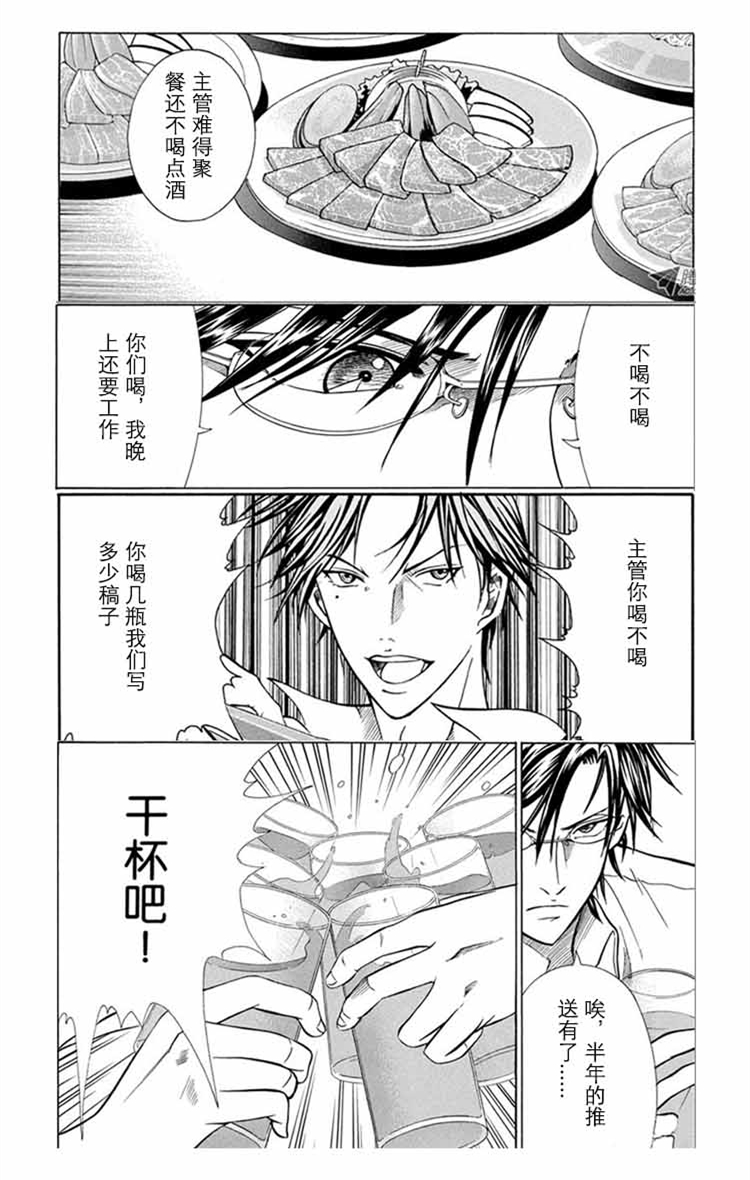
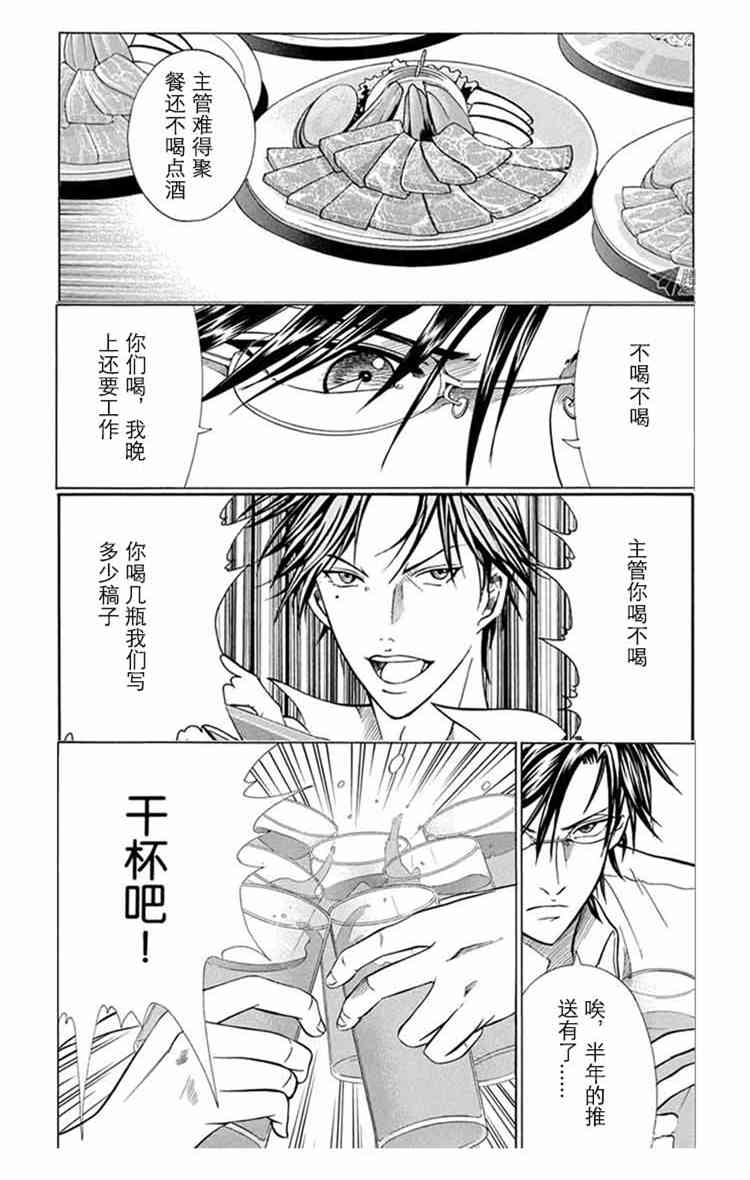
改小图，优化第二第四页动画时间

diff --git a/js/main.js b/js/main.js
@@ -36,7 +36,7 @@ $(document).ready(function(){
         var i = 0;
         while(arr[i] != undefined){
             if(i > 0){
-                TimeLine.add(Tweene.get($(str+" #sec-div"+arr[i-1])).to({opacity: 0}).duration(500).easing([0, 0, 1, 1]));
+                TimeLine.add(Tweene.get($(str+" #sec-div"+arr[i-1])).to({opacity: 0}).duration(500).easing([0, 0, 1, 1]), "+=500");
             }
             var maxlen = $(str+" #sec-div"+arr[i]+" p").size();
             for(var j=1; j<=maxlen; j++){

diff --git a/css/second-style.css b/css/second-style.css
@@ -447,6 +447,9 @@
     top: 50%;
     width: 100%;
 }
+#news .news-contain img:nth-child(4){
+    width: 90%;
+}
 #news #news-hint2, #news #news-hint3{
     width: 9rem;
     height: 3rem;
